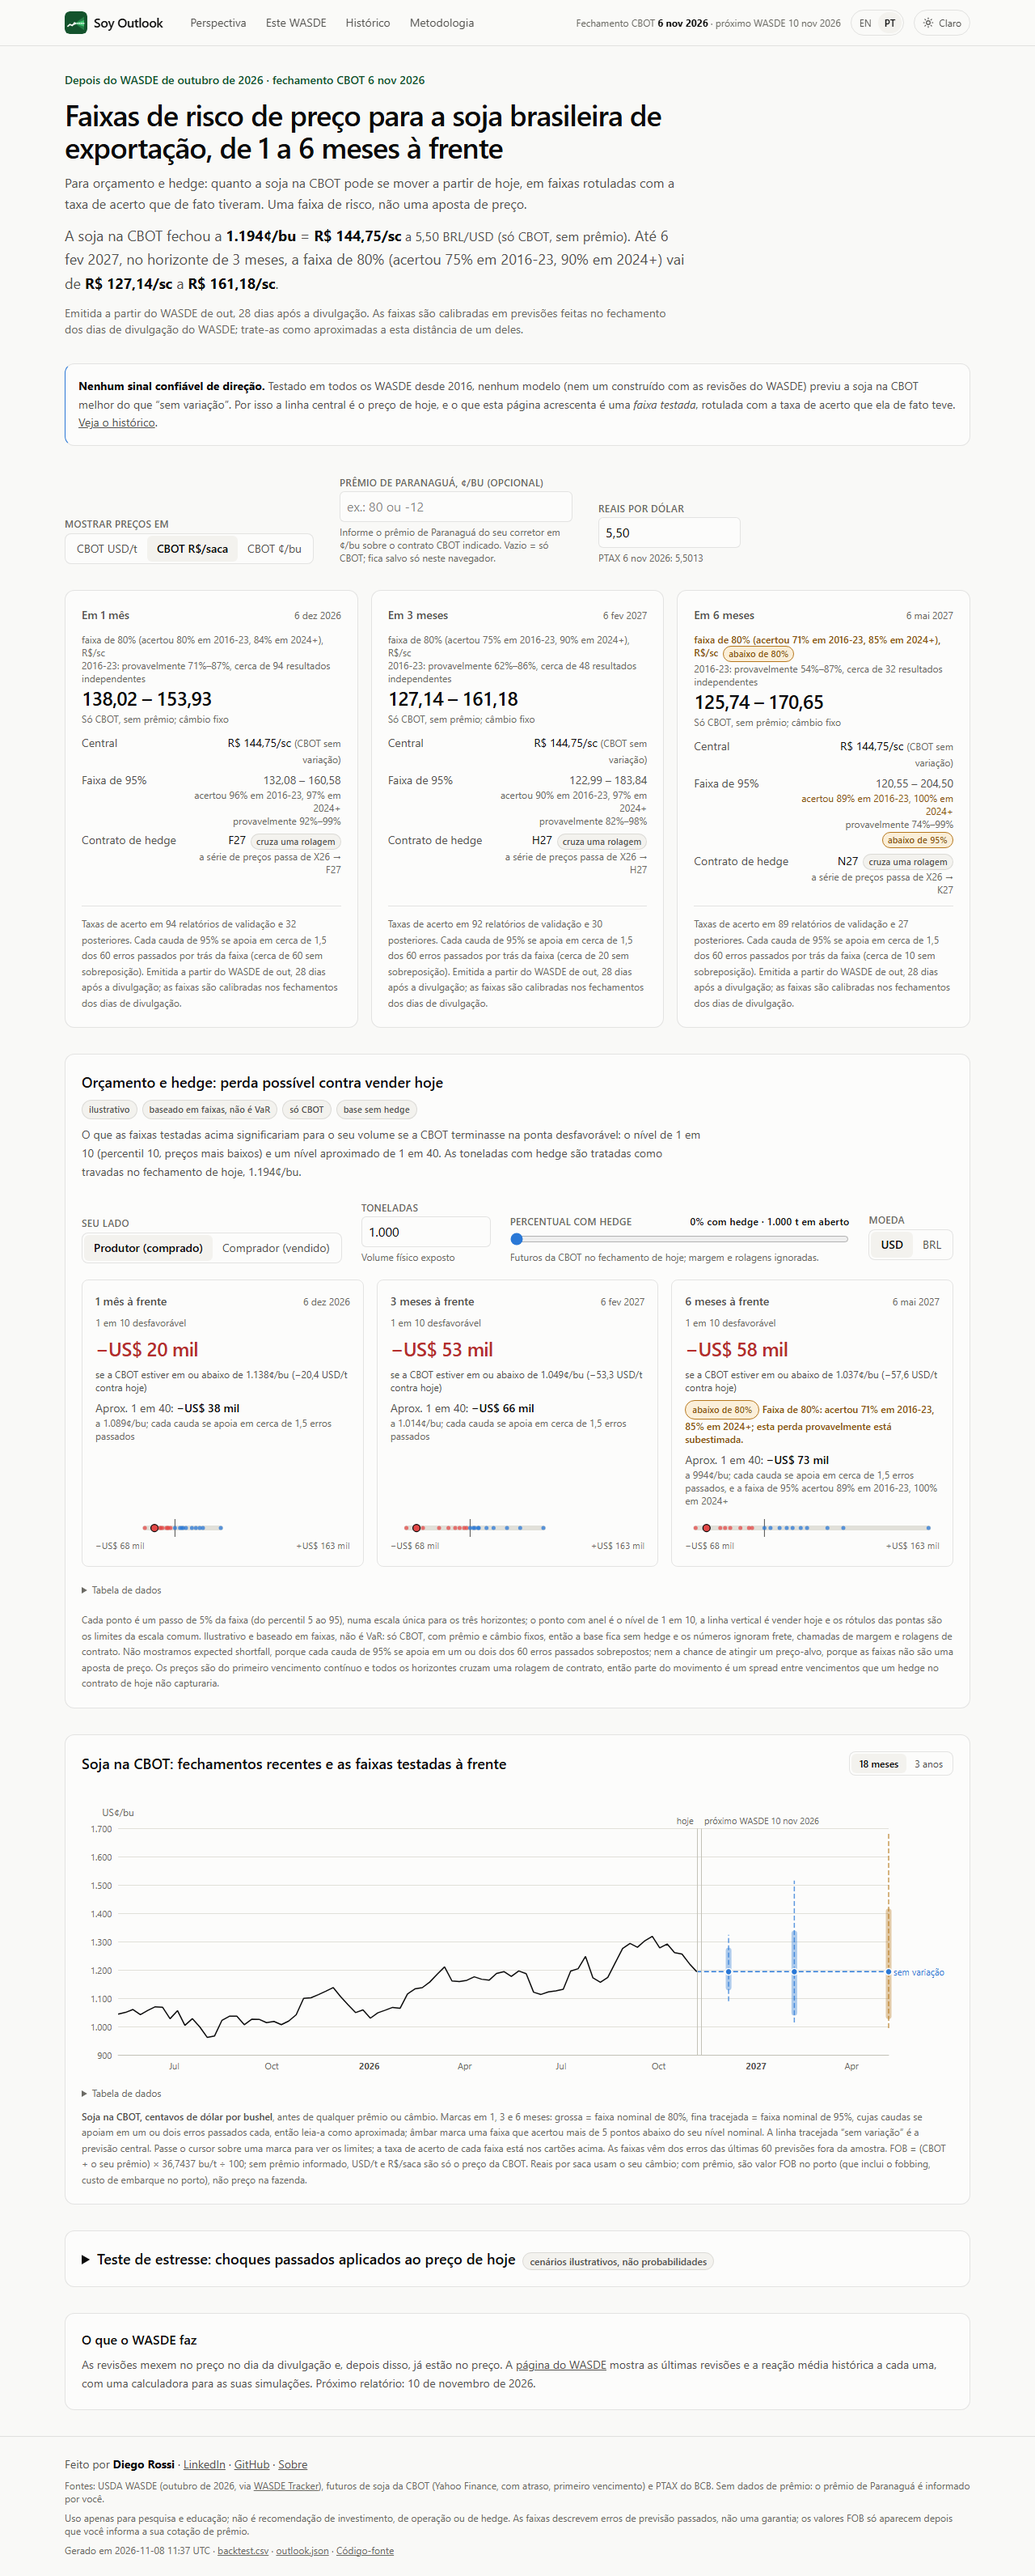
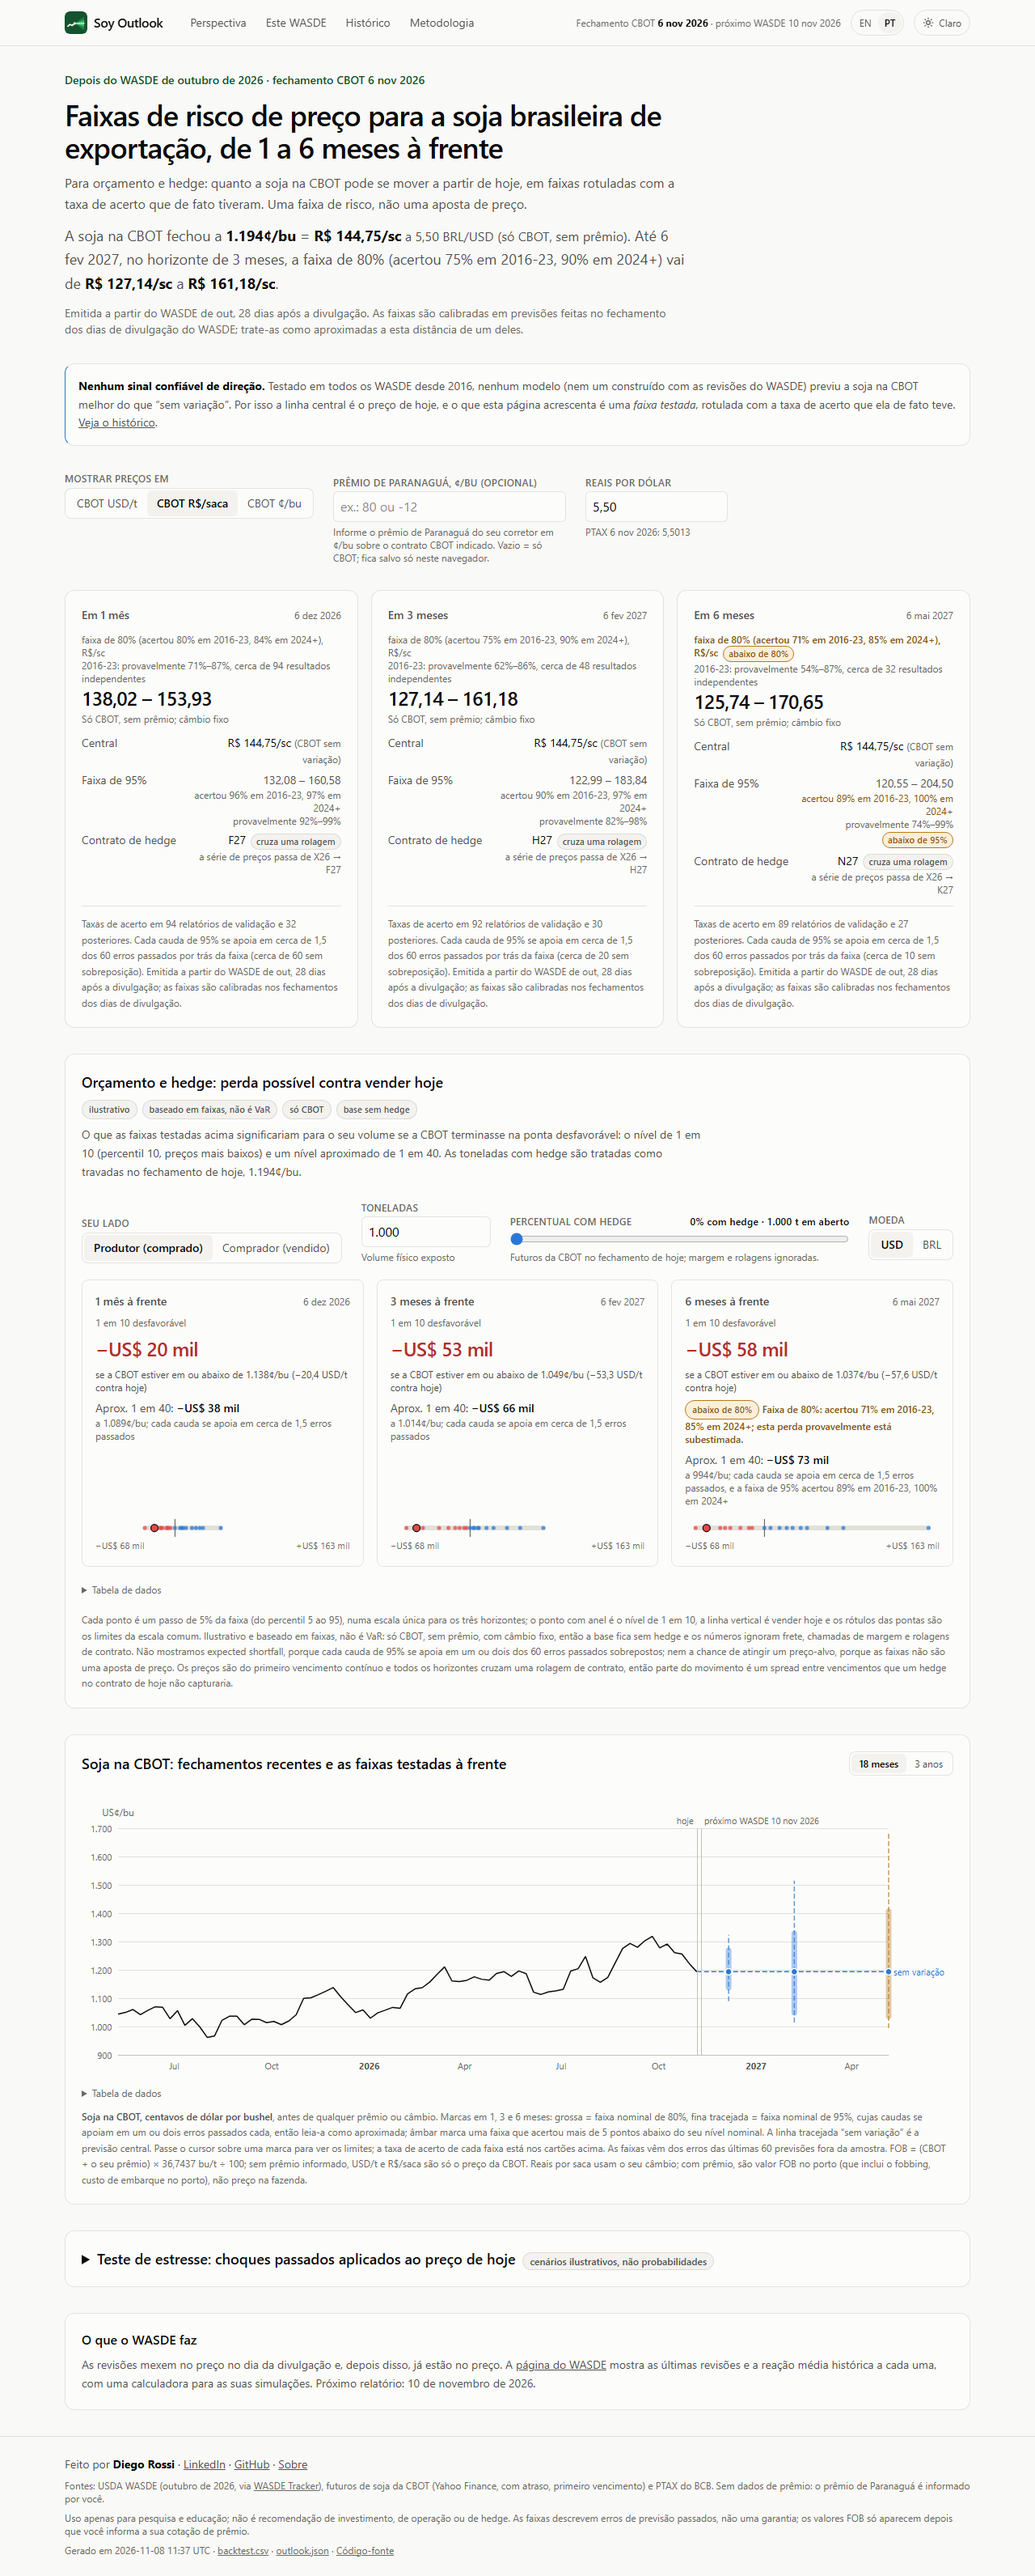
fix(premium): audit fixes for the user-input premium
- usePremium: after a failed storage write (quota full, reads still work)
  the snapshot no longer falls back to the stale stored value, so the
  typed premium and Clear take effect in memory.
- Inline premium error now says which value still applies ("Using
  +80c/bu." / "Showing CBOT only."), in en and pt-BR, like the FX field.
- Outlook controls align on top (labels and inputs on one line) and the
  port-to-interior discount fits on the same row at 1280 px without its
  label wrapping; README Outlook screenshots regenerated.
- The repo test that no premium file is tracked failed on the code file
  web/lib/premium.ts; it now checks data files only (data/, web/public/
  and data extensions).
- Playwright: failed-write case and the error fallback text.
- Reflow two methodology disclaimer lines.

diff --git a/web/e2e/contract.spec.ts b/web/e2e/contract.spec.ts
@@ -122,6 +122,42 @@ test("a throwing localStorage still lets the user enter a premium", async ({ pag
   await expect(page.getByTestId("headline")).toContainText("(CBOT only, excl. premium)");
 });
 
+test("a failed storage write never resurrects a stale stored premium", async ({ page }) => {
+  // Reads work but writes fail (quota full): the typed value must win over the stale stored one.
+  await page.addInitScript(() => {
+    localStorage.setItem("soy-outlook.premium-c-bu", "80");
+    const boom = () => {
+      throw new Error("quota exceeded");
+    };
+    Storage.prototype.setItem = boom;
+    Storage.prototype.removeItem = boom;
+  });
+  await page.goto("/");
+  const headline = page.getByTestId("headline");
+  await expect(headline).toContainText("your premium +80¢/bu");
+  const input = page.getByLabel(/Paranaguá premium/);
+  await input.fill("50");
+  await input.press("Enter");
+  await expect(headline).toContainText("your premium +50¢/bu");
+  await page.getByRole("button", { name: "Clear" }).click();
+  await expect(headline).toContainText("(CBOT only, excl. premium)");
+});
+
+test("an invalid premium says which value still applies", async ({ page }) => {
+  await page.goto("/");
+  const input = page.getByLabel(/Paranaguá premium/);
+  const help = page.getByTestId("premium-help");
+  await input.fill("abc");
+  await input.press("Enter");
+  await expect(help).toContainText("Showing CBOT only.");
+  await input.fill("80");
+  await input.press("Enter");
+  await input.fill("999");
+  await input.press("Enter");
+  await expect(help).toContainText("Using +80¢/bu.");
+  await expect(page.getByTestId("headline")).toContainText("your premium +80¢/bu");
+});
+
 test("what-if shows an 80% prediction interval from the published covariance", async ({ page }) => {
   const wasde = await json(page, "wasde.json");
   const r = wasde.reaction;

diff --git a/web/components/MethodologyView.tsx b/web/components/MethodologyView.tsx
@@ -199,8 +199,8 @@ export default function MethodologyView({ meta }: { meta: Meta }) {
           <p>
             <strong className="text-ink">Aviso.</strong> Uso apenas para pesquisa e educação; não é recomendação de
             investimento, de operação ou de hedge, nem oferta de compra ou venda de nada. Os preços da CBOT têm atraso, e os
-            valores FOB só aparecem com a cotação de prêmio que você mesmo informar. As faixas descrevem o tamanho dos erros de previsão passados; não são garantia sobre preços
-            futuros. Sem vínculo com o USDA, a CME Group, o Banco Central do Brasil ou qualquer trading.
+            valores FOB só aparecem com a cotação de prêmio que você mesmo informar. As faixas descrevem o tamanho dos erros
+            de previsão passados; não são garantia sobre preços futuros. Sem vínculo com o USDA, a CME Group, o Banco Central do Brasil ou qualquer trading.
           </p>
         </Block>
 
@@ -369,9 +369,8 @@ export default function MethodologyView({ meta }: { meta: Meta }) {
         <p>
           <strong className="text-ink">Disclaimer.</strong> Research and educational use only; not investment, trading or
           hedging advice, and not an offer to buy or sell anything. CBOT prices are delayed, and FOB values appear only with
-          a premium quote you enter yourself. The ranges describe
-          how large past forecast errors were; they are not a guarantee about future prices. No affiliation with USDA,
-          CME Group, Banco Central do Brasil or any trading company.
+          a premium quote you enter yourself. The ranges describe how large past forecast errors were; they are not a
+          guarantee about future prices. No affiliation with USDA, CME Group, Banco Central do Brasil or any trading company.
         </p>
       </Block>
 

diff --git a/web/components/OutlookView.tsx b/web/components/OutlookView.tsx
@@ -520,7 +520,7 @@ export default function OutlookView({ meta, outlook }: Props) {
         </aside>
       )}
 
-      <section className="flex flex-wrap items-end gap-x-8 gap-y-4">
+      <section className="flex flex-wrap items-start gap-x-6 gap-y-4">
         <div className="space-y-1">
           <p className="text-xs font-medium uppercase tracking-wide text-muted" id="unit-legend">
             {t("Show prices as", "Mostrar preços em")}
@@ -566,7 +566,11 @@ export default function OutlookView({ meta, outlook }: Props) {
               data-testid="premium-help"
             >
               {premiumError
-                ? premiumError
+                ? `${premiumError} ${
+                    fob
+                      ? t(`Using ${f.signed0(premium)}¢/bu.`, `Usando ${f.signed0(premium)}¢/bu.`)
+                      : t("Showing CBOT only.", "Mostrando só CBOT.")
+                  }`
                 : t(
                     "Enter your broker's Paranaguá premium in ¢/bu vs the named CBOT contract. Empty = CBOT only; kept in this browser only.",
                     "Informe o prêmio de Paranaguá do seu corretor em ¢/bu sobre o contrato CBOT indicado. Vazio = só CBOT; fica salvo só neste navegador.",
@@ -606,7 +610,7 @@ export default function OutlookView({ meta, outlook }: Props) {
           </div>
         )}
         {basisOn && (
-          <div className="w-56 space-y-1">
+          <div className="w-full max-w-sm space-y-1 sm:w-64">
             <label htmlFor="basis" className="text-xs font-medium uppercase tracking-wide text-muted">
               {t("Port-to-interior discount (R$/sack)", "Desconto porto-interior (R$/sc)")}
             </label>

diff --git a/web/lib/premium.ts b/web/lib/premium.ts
@@ -60,8 +60,11 @@ export function writePremium(v: number | null): void {
   try {
     if (v === null) window.localStorage.removeItem(PREMIUM_KEY);
     else window.localStorage.setItem(PREMIUM_KEY, String(v));
+    writeFailed = false;
   } catch {
-    /* storage unavailable: the value still applies in memory for this page view */
+    // Storage unavailable or full: the value still applies in memory for this page view, and the
+    // snapshot must not fall back to a stale stored value that a failed write left behind.
+    writeFailed = true;
   }
   memory = v;
   window.dispatchEvent(new Event(PREMIUM_EVENT));
@@ -69,8 +72,10 @@ export function writePremium(v: number | null): void {
 
 // Fallback when localStorage throws (private mode, blocked site data): the last written value.
 let memory: number | null = null;
+let writeFailed = false;
 
 function snapshot(): number | null {
+  if (writeFailed) return memory;
   try {
     window.localStorage.getItem(PREMIUM_KEY);
   } catch {

diff --git a/tests/test_units_and_ingest.py b/tests/test_units_and_ingest.py
@@ -66,7 +66,14 @@ def test_no_premium_data_anywhere_in_the_repo():
     tracked = subprocess.run(
         ["git", "ls-files"], cwd=ROOT, capture_output=True, text=True, check=False
     ).stdout.splitlines()
-    assert not [f for f in tracked if "premium" in f.lower()]
+    # Code may name the user input (web/lib/premium.ts); no premium *data* file may be tracked.
+    data_ext = (".csv", ".parquet", ".json", ".xlsx", ".xls", ".txt")
+    assert not [
+        f
+        for f in tracked
+        if "premium" in f.lower()
+        and (f.startswith(("data/", "web/public/")) or f.lower().endswith(data_ext))
+    ]
     assert not (ROOT / "data" / "seed").exists() or not any((ROOT / "data" / "seed").iterdir())
     ignored = subprocess.run(
         ["git", "check-ignore", "-q", "data/seed/paranagua_premium.csv"],
